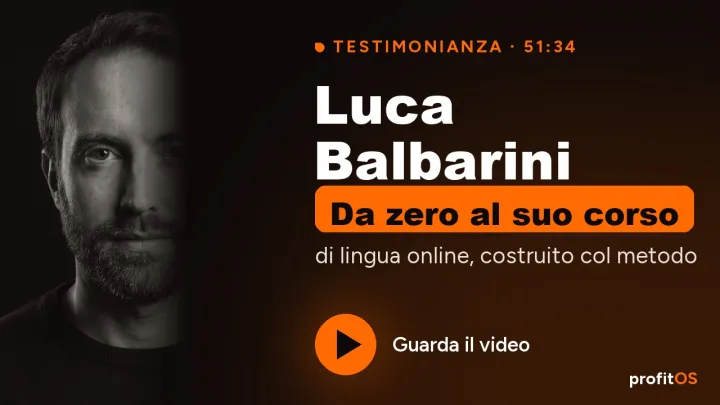
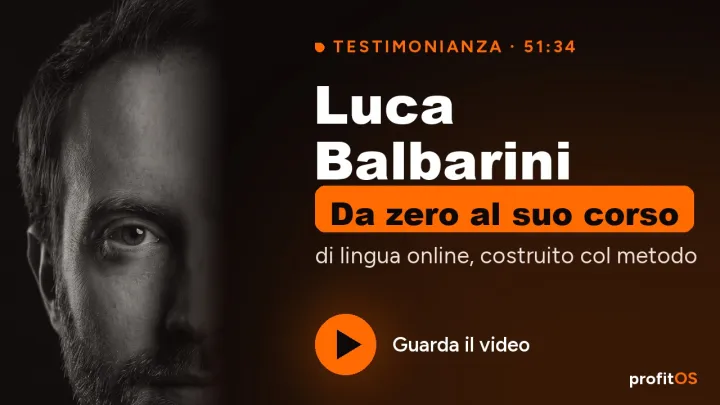
Frecce colonne; copertine YouTube zoomate

Changed region(s): [[0.0, 0.0593, 0.3056, 1.0], [0.1528, 0.0, 0.2139, 0.0296], [0.2444, 0.8889, 0.275, 0.9185]]

diff --git a/index.html b/index.html
@@ -710,10 +710,12 @@
 .pos .globo .paese{padding:6px 11px;font-size:12px;background:rgba(15,11,9,.75)}
 .pos .mcolonne{display:grid;grid-template-columns:1fr 1fr;gap:12px;height:520px;overflow:hidden;
   -webkit-mask:linear-gradient(transparent,#000 10%,#000 90%,transparent);mask:linear-gradient(transparent,#000 10%,#000 90%,transparent)}
-.pos .mcol{display:flex;flex-direction:column;gap:12px;animation:pos-sali 120s linear infinite}
-.pos .mcol.giu{animation-direction:reverse;animation-duration:140s}
-.pos .mcolonne:hover .mcol{animation-play-state:paused}
-@keyframes pos-sali{to{transform:translateY(-50%)}}
+.pos .mcol-box{position:relative}
+.pos .mcol{display:flex;flex-direction:column;gap:12px;will-change:transform}
+.pos .mfrecce{position:absolute;right:-19px;top:50%;transform:translateY(-50%);display:flex;flex-direction:column;gap:8px;z-index:2}
+.pos .mfrecce button{width:38px;height:38px;border-radius:50%;border:1px solid rgba(255,107,0,.5);background:rgba(15,11,9,.92);color:#fff;cursor:pointer;
+  font-size:11px;display:grid;place-items:center;padding:0;box-shadow:0 8px 24px rgba(0,0,0,.5);transition:background .2s,transform .15s;-webkit-user-select:none;user-select:none;touch-action:none}
+.pos .mfrecce button:hover{background:var(--acc);color:var(--bg)}.pos .mfrecce button:active{transform:scale(.92)}
 .pos .mcarta{border:1px solid var(--bor);border-radius:16px;overflow:hidden;background:var(--s3)}
 .pos .mcarta img{display:block;width:100%;aspect-ratio:4/3;object-fit:cover;filter:grayscale(.7) brightness(.55);transition:filter .45s}.pos .mcarta:hover img{filter:none}
 .pos .mcarta .t{padding:12px 14px}.pos .mcarta .t i{display:block;font-style:normal;color:var(--acc);font-size:10px;letter-spacing:1.8px;text-transform:uppercase;font-weight:700}
@@ -722,8 +724,7 @@
 .pos .mcarta.logo .l{width:76px;height:56px;display:flex;align-items:center;justify-content:center}
 .pos .mcarta.logo .l img{width:auto;height:auto;max-width:100%;max-height:100%;aspect-ratio:auto;object-fit:contain;filter:none;opacity:.8}.pos .mcarta.logo:hover .l img{opacity:1}
 .pos .mcarta.logo .t{padding:0}
-@media (max-width:900px){.pos .mondo-due{grid-template-columns:1fr}.pos .mcolonne{height:440px}}
-@media (prefers-reduced-motion:reduce){.pos .mcol{animation:none}}
+@media (max-width:900px){.pos .mondo-due{grid-template-columns:1fr}.pos .mcolonne{height:440px}.pos .mfrecce{right:6px}}
 /* le tre tappe del percorso: una linea, tre punti */
 .pos .tappe{position:relative;padding-top:30px}
 .pos .tappe::before{content:"";position:absolute;left:16%;right:16%;top:0;height:2px;
@@ -1336,7 +1337,10 @@
     <div class="globo" id="pos-globo"><canvas></canvas>
       <div class="paesi"><span class="paese"><i></i>Italia</span><span class="paese"><i></i>Portogallo</span><span class="paese"><i></i>Malta</span><span class="paese"><i></i>Stati Uniti</span><span class="paese"><i></i>Emirati · Dubai</span><span class="paese"><i></i>Spagna</span><span class="paese"><i></i>Germania</span><span class="paese"><i></i>Cipro</span><span class="paese"><i></i>Thailandia</span></div>
     </div>
-    <div class="mcolonne" id="pos-colonne"><div class="mcol" id="pos-col-a"></div><div class="mcol giu" id="pos-col-b"></div></div>
+    <div class="mcol-box">
+      <div class="mcolonne" id="pos-colonne"><div class="mcol" id="pos-col-a"></div><div class="mcol giu" id="pos-col-b"></div></div>
+      <div class="mfrecce"><button type="button" id="pos-freccia-su" aria-label="Scorri indietro">&#9650;</button><button type="button" id="pos-freccia-giu" aria-label="Scorri avanti">&#9660;</button></div>
+    </div>
   </div>
 </div></div>
 
@@ -1689,6 +1693,42 @@
       : '<div class="mcarta logo"><div class="l"><img src="' + M + s[1] + '" alt="' + s[3] + '" loading="lazy"></div><div class="t"><i>' + s[2] + '</i><b>' + s[3] + '</b>' + (s[4] ? '<span>' + s[4] + '</span>' : '') + '</div></div>'; }
     A.innerHTML = SA.map(scheda).join("") + SA.map(scheda).join("");
     B.innerHTML = SB.map(scheda).join("") + SB.map(scheda).join("");
+    /* le colonne scorrono via JS: cosi' le frecce possono spingerle. Un click sposta di un passo, tenendo premuto la velocita' sale. */
+    var box = document.getElementById("pos-colonne"), su = document.getElementById("pos-freccia-su"), giu = document.getElementById("pos-freccia-giu");
+    var colonne = [{ el: A, y: 0, dir: 1 }, { el: B, y: 0, dir: -1 }];
+    var base = matchMedia("(prefers-reduced-motion: reduce)").matches ? 0 : 16, fattore = 1, verso = 1, spinta = 0, spintaVerso = 1, fermo = false, inVista = false, gira = false, ultimo = 0;
+    function passo(t) {
+      if (!inVista) { gira = false; return; }
+      var dt = Math.min(0.05, (t - ultimo) / 1000) || 0; ultimo = t;
+      var v = (fermo && fattore === 1) ? 0 : base * fattore * verso, extra = 0;
+      if (spinta > 0) { extra = Math.min(spinta, 900 * dt); spinta -= extra; extra *= spintaVerso; }
+      colonne.forEach(function (c) {
+        var meta = c.el.scrollHeight / 2; if (!meta) return;
+        c.y = (((c.y + (v * dt + extra) * c.dir) % meta) + meta) % meta;
+        c.el.style.transform = "translateY(" + (-c.y).toFixed(1) + "px)";
+      });
+      requestAnimationFrame(passo);
+    }
+    function avvia() { if (!gira) { gira = true; ultimo = performance.now(); requestAnimationFrame(passo); } }
+    new IntersectionObserver(function (e) { e.forEach(function (x) { inVista = x.isIntersecting; if (inVista) avvia(); }); }, { rootMargin: "120px 0px" }).observe(box);
+    box.addEventListener("mouseenter", function () { fermo = true; });
+    box.addEventListener("mouseleave", function () { fermo = false; });
+    function freccia(btn, direzione) {
+      var timer = null, lunga = false;
+      btn.addEventListener("pointerdown", function (e) {
+        e.preventDefault(); try { btn.setPointerCapture(e.pointerId); } catch (err) {} lunga = false;
+        timer = setTimeout(function () { lunga = true; fattore = 7; verso = direzione; avvia(); }, 220);
+      });
+      function lascia() {
+        clearTimeout(timer);
+        if (lunga) { fattore = 1; verso = 1; }
+        else { spinta += 240; spintaVerso = direzione; avvia(); }
+        lunga = false;
+      }
+      btn.addEventListener("pointerup", lascia); btn.addEventListener("pointercancel", lascia);
+      btn.addEventListener("contextmenu", function (e) { e.preventDefault(); });
+    }
+    freccia(giu, 1); freccia(su, -1);
   })();
 
 
